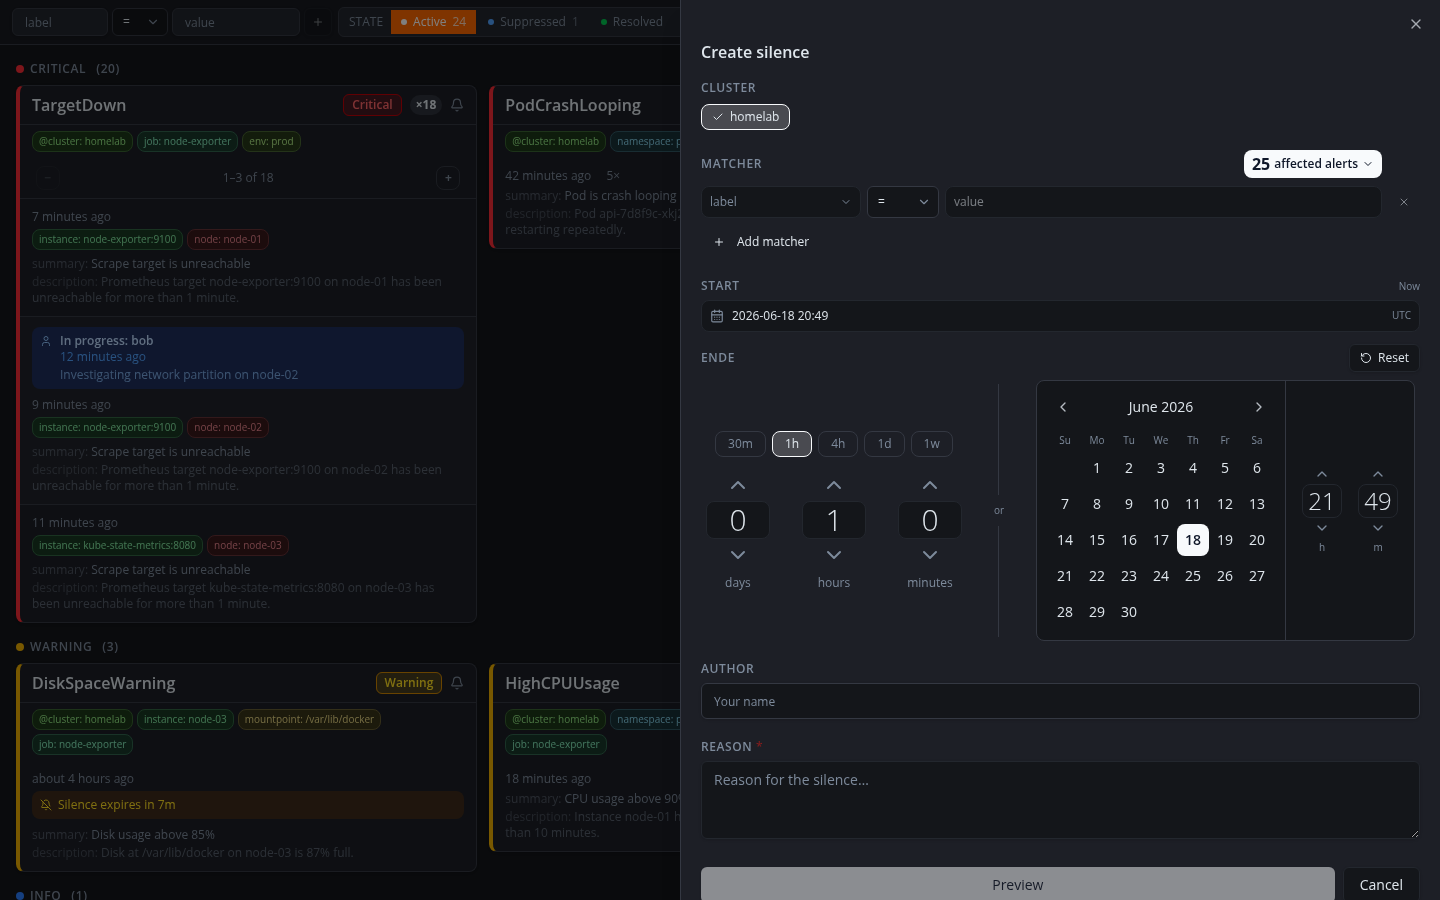
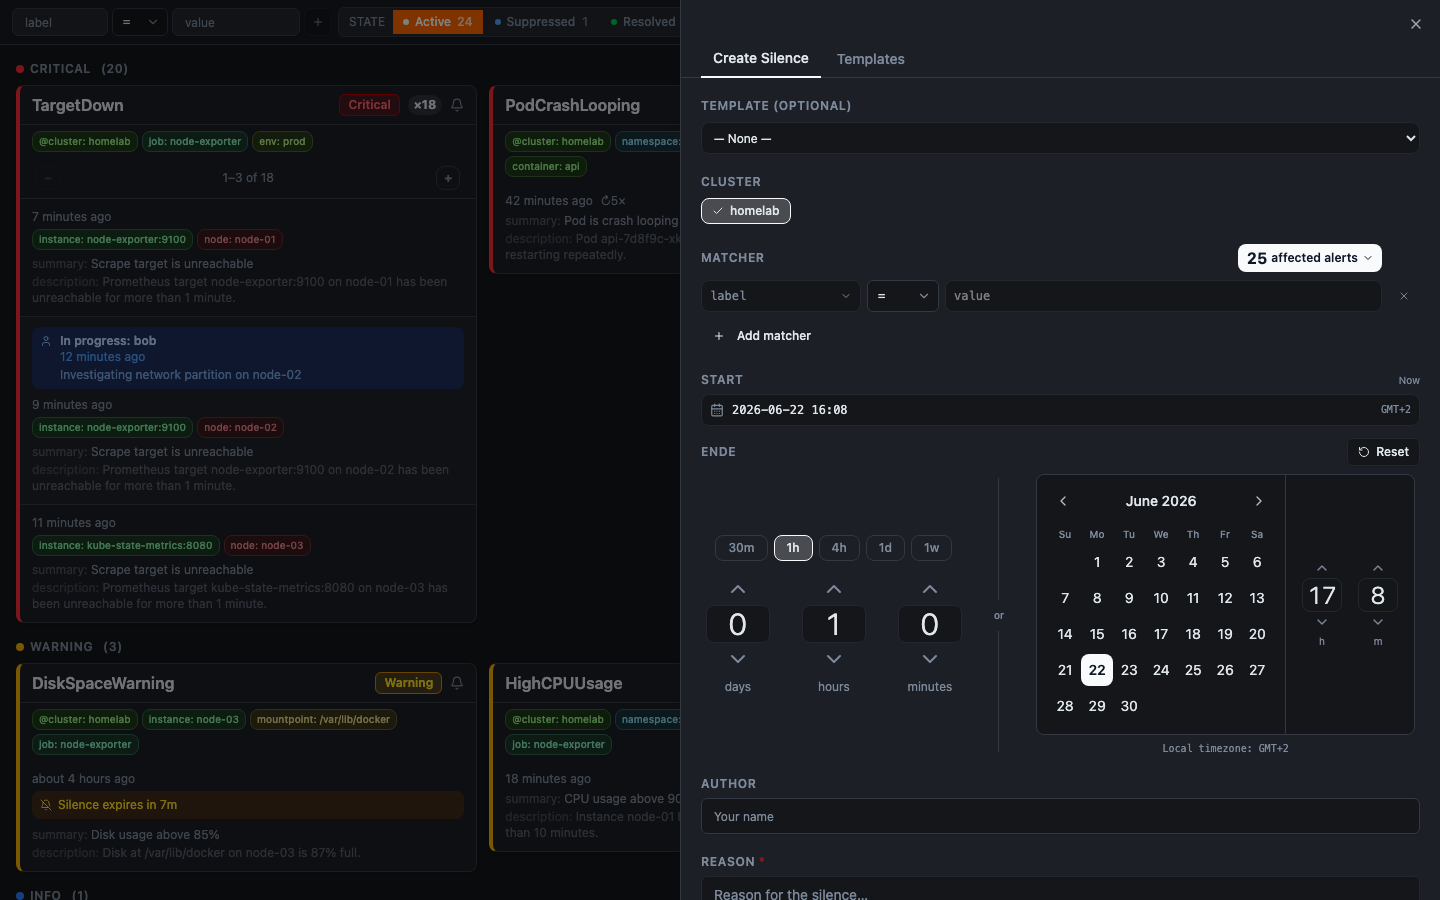
docs(frontend): add silence templates docs, screenshots, and fix test suite
- Add Silence Templates section to README (between Create Silence and Silence from Alert)
- Add silence template entry to Why Jarvis feature list
- Add two Playwright screenshot tests (templates list + new form) with realistic mock data
- Fix alertUtils: != operator for multi-receiver alerts should match when
  any receiver differs (receivers.some(r => r !== val)), not when none match
- Fix test-setup.ts: provide conformant localStorage mock for Node 25 + jsdom 29
  compatibility (Storage prototype gets lost when --localstorage-file has no path)
- Fix Header.test.tsx: update assertion after silence sheet gained tabs (no longer
  has a heading element, check for Templates tab button instead)

diff --git a/frontend/e2e/feature-screenshots.spec.ts b/frontend/e2e/feature-screenshots.spec.ts
@@ -300,6 +300,38 @@ const MOCK_SILENCE_EVENTS = [
   { id: 1, fingerprint: 'fp-001', silenceId: 'sil-xyz', clusterName: 'homelab', action: 'created', performedBy: 'alice', comment: 'Silenced during initial triage', recordedAt: ago(30) },
 ]
 
+const MOCK_SILENCE_TEMPLATES = [
+  {
+    id: 'tpl-001',
+    name: 'Production Maintenance',
+    matchers: [
+      { isEqual: true, isRegex: false, name: 'env', value: 'production' },
+      { isEqual: true, isRegex: false, name: 'namespace', value: 'production' },
+    ],
+    reason: 'Scheduled maintenance window — silence all production alerts',
+    createdAt: ago(2880),
+  },
+  {
+    id: 'tpl-002',
+    name: 'Node Exporter Flap',
+    matchers: [
+      { isEqual: true, isRegex: false, name: 'alertname', value: 'TargetDown' },
+      { isEqual: true, isRegex: false, name: 'job', value: 'node-exporter' },
+    ],
+    reason: 'Known flapping on rolling node restarts — use during cluster upgrades',
+    createdAt: ago(1440),
+  },
+  {
+    id: 'tpl-003',
+    name: 'Staging Noise',
+    matchers: [
+      { isEqual: true, isRegex: false, name: 'env', value: 'staging' },
+    ],
+    reason: 'Suppress all staging alerts during off-hours',
+    createdAt: ago(720),
+  },
+]
+
 const AUTH_NONE = { mode: 'none', loginUrl: '', setupRequired: false }
 
 // ── Helpers ───────────────────────────────────────────────────────────────────
@@ -314,6 +346,9 @@ async function mockBaseAPIs(page: Page, alerts: typeof ALERTS_ACTIVE = ALERTS_AC
   // Non-alert APIs
   await page.route('**/api/v1/silences**', (route) =>
     route.fulfill({ status: 200, contentType: 'application/json', body: JSON.stringify([SILENCE_ACTIVE, SILENCE_EXPIRING]) }),
+  )
+  await page.route('**/api/v1/silence-templates**', (route) =>
+    route.fulfill({ status: 200, contentType: 'application/json', body: JSON.stringify(MOCK_SILENCE_TEMPLATES) }),
   )
   await page.route('**/api/v1/clusters**', (route) =>
     route.fulfill({ status: 200, contentType: 'application/json', body: JSON.stringify(MOCK_CLUSTERS) }),
@@ -623,5 +658,49 @@ test.describe('Feature screenshots', () => {
     await page.goto('/?state=suppressed')
     await waitForAlerts(page)
     await page.screenshot({ path: `${ASSETS_DIR}/feature-alert-active-silence.png`, fullPage: false })
+  })
+
+  // ── Silence templates — list ─────────────────────────────────────────────
+
+  test('silence templates list', async ({ page }) => {
+    await dismissNoAuthNotice(page)
+    await mockBaseAPIs(page)
+    await page.route('**/api/v1/alerts/groups**', (route) =>
+      route.fulfill({ status: 200, contentType: 'application/json', body: JSON.stringify([]) }),
+    )
+    await page.goto('/?state=active')
+    await waitForAlerts(page)
+    // Open the silence sheet via the "Create silence" button in the header
+    await page.click('button:has-text("Create silence")')
+    await page.waitForTimeout(500)
+    // Switch to the Templates tab
+    await page.click('button:has-text("Templates")')
+    await page.waitForTimeout(600)
+    await page.screenshot({ path: `${ASSETS_DIR}/feature-silence-templates.png`, fullPage: false })
+  })
+
+  // ── Silence templates — new template form ────────────────────────────────
+
+  test('silence templates new form', async ({ page }) => {
+    await dismissNoAuthNotice(page)
+    await mockBaseAPIs(page)
+    await page.route('**/api/v1/alerts/groups**', (route) =>
+      route.fulfill({ status: 200, contentType: 'application/json', body: JSON.stringify([]) }),
+    )
+    await page.goto('/?state=active')
+    await waitForAlerts(page)
+    await page.click('button:has-text("Create silence")')
+    await page.waitForTimeout(500)
+    await page.click('button:has-text("Templates")')
+    await page.waitForTimeout(400)
+    // Open the new template form
+    await page.click('button:has-text("+ New Template")')
+    await page.waitForTimeout(400)
+    // Fill in example data to show the form in a useful state
+    await page.fill('input[placeholder="e.g., Prod Maintenance"]', 'Staging Freeze')
+    await page.fill('textarea[placeholder="e.g., Scheduled maintenance window"]', 'Suppress staging during sprint freeze — no pages needed')
+    await page.click('button:has-text("+ Add Matcher")')
+    await page.waitForTimeout(200)
+    await page.screenshot({ path: `${ASSETS_DIR}/feature-silence-templates-form.png`, fullPage: false })
   })
 })

diff --git a/frontend/src/test-setup.ts b/frontend/src/test-setup.ts
@@ -1,1 +1,33 @@
 import '@testing-library/jest-dom'
+
+// Node 25 + Vitest 4 + jsdom 29 can lose the Storage prototype when Node's
+// built-in test runner processes --localstorage-file without a valid path.
+// Provide a conformant localStorage so Zustand persist and test code work.
+class LocalStorageMock implements Storage {
+  private store: Record<string, string> = {}
+
+  get length(): number {
+    return Object.keys(this.store).length
+  }
+  key(index: number): string | null {
+    return Object.keys(this.store)[index] ?? null
+  }
+  getItem(key: string): string | null {
+    return Object.prototype.hasOwnProperty.call(this.store, key) ? this.store[key] : null
+  }
+  setItem(key: string, value: string): void {
+    this.store[key] = String(value)
+  }
+  removeItem(key: string): void {
+    delete this.store[key]
+  }
+  clear(): void {
+    this.store = {}
+  }
+}
+
+Object.defineProperty(window, 'localStorage', {
+  value: new LocalStorageMock(),
+  writable: true,
+  configurable: true,
+})

diff --git a/frontend/src/components/silences/SilenceForm.tsx b/frontend/src/components/silences/SilenceForm.tsx
@@ -580,7 +580,7 @@ export function SilenceForm({
   )
   const effectiveCreatedBy = user?.username ?? createdBy
   const [comment, setComment] = useState(prefillSilence?.comment ?? '')
-  
+
   // Template support
   const { data: templates = [] } = useSilenceTemplates()
   const [selectedTemplate, setSelectedTemplate] = useState<string>('')
@@ -700,7 +700,7 @@ export function SilenceForm({
     if (!template) return
 
     setSelectedTemplate(templateId)
-    
+
     // Replace matchers with template matchers
     const newMatchers = template.matchers.map((m) => ({
       id: nextId(),
@@ -711,7 +711,7 @@ export function SilenceForm({
       value: m.value,
     }))
     setMatchers(newMatchers)
-    
+
     // Pre-fill comment with template reason if reason is not empty
     if (template.reason) {
       setComment(template.reason)

diff --git a/frontend/src/components/layout/Header.test.tsx b/frontend/src/components/layout/Header.test.tsx
@@ -58,7 +58,8 @@ describe('Header – silence button', () => {
   it('opens silence form when "Create silence" is clicked', async () => {
     renderHeader()
     await userEvent.click(screen.getByText('Create silence'))
-    expect(screen.getByRole('heading', { name: 'Create silence' })).toBeInTheDocument()
+    // Sheet opens with tabs; "Templates" tab is only visible when the sheet is open
+    expect(screen.getByRole('button', { name: 'Templates' })).toBeInTheDocument()
   })
 })
 

diff --git a/frontend/src/lib/alertUtils.ts b/frontend/src/lib/alertUtils.ts
@@ -59,7 +59,7 @@ export function matchesLabelMatchers(
         case '=':
           return receivers.includes(m.value)
         case '!=':
-          return !receivers.includes(m.value)
+          return receivers.some((r) => r !== m.value)
         case '=~': {
           const re = safeRegex(m.value)
           return re ? receivers.some((r) => re.test(r)) : false

diff --git a/README.md b/README.md
@@ -27,6 +27,7 @@ Most Alertmanager UIs are read-only dashboards. Jarvis is built for teams that n
 - **Card and List View** — grouped by severity, sortable
 - **Label-based filtering** — `=` / `!=` / `=~` / `!~` matcher chips, URL-serialized
 - **Silences** — create, edit, extend, delete; full Alertmanager proxy
+- **Silence templates** — reusable matcher sets for recurring maintenance windows
 - **Alert search** — full-text search across alert names and label values; results update as you type
 - **Dark / Light theme** — toggle between dark and light mode; preference is persisted in localStorage
 - **Multi-cluster** — poll multiple Alertmanager instances simultaneously
@@ -329,6 +330,39 @@ The silence creation form is designed to make it fast and safe to create silence
 - Confirm on the preview screen to submit; the results screen then shows per-cluster success or error status with a direct link to the created silence in Alertmanager
 
 Silences are sent directly to Alertmanager via Jarvis's API proxy and are effective immediately. No need to open the native Alertmanager UI.
+
+---
+
+### Silence Templates
+
+Reusable silence blueprints — define matcher sets once and apply them repeatedly without re-typing matchers every time.
+
+![Silence Templates](docs/assets/feature-silence-templates.png)
+
+During recurring maintenance windows or known-noisy alert patterns, you often create the same silence over and over. Silence templates save a named set of matchers and a reason so you can apply them with a few clicks instead of rebuilding the matchers from scratch each time.
+
+**How it works:**
+
+Templates are managed inside the **Templates** tab of the silence creation sheet. Open it by clicking **Create silence** in the header, then switching to the **Templates** tab.
+
+**Creating a template:**
+1. Click **+ New Template**
+2. Give it a descriptive name (e.g., "Production Maintenance")
+3. Add matchers — same matcher editor as the regular silence form (`=` / `!=` / `=~` / `!~`)
+4. Optionally add a reason/comment that will explain the template's purpose
+5. Click **Save Template**
+
+![New Template Form](docs/assets/feature-silence-templates-form.png)
+
+**Using a template:**
+- Click the edit icon on any saved template to load its name, matchers, and reason back into the form
+- Adjust the loaded matchers if needed (e.g., narrow the scope for a specific incident), then create the silence as normal
+
+**Managing templates:**
+- Edit a template at any time — changes take effect immediately for future uses
+- Delete templates that are no longer needed via the trash icon
+
+Templates are stored in Jarvis's database and are shared across all users. They are not sent to Alertmanager; they are local helpers for building silences faster.
 
 ---
 